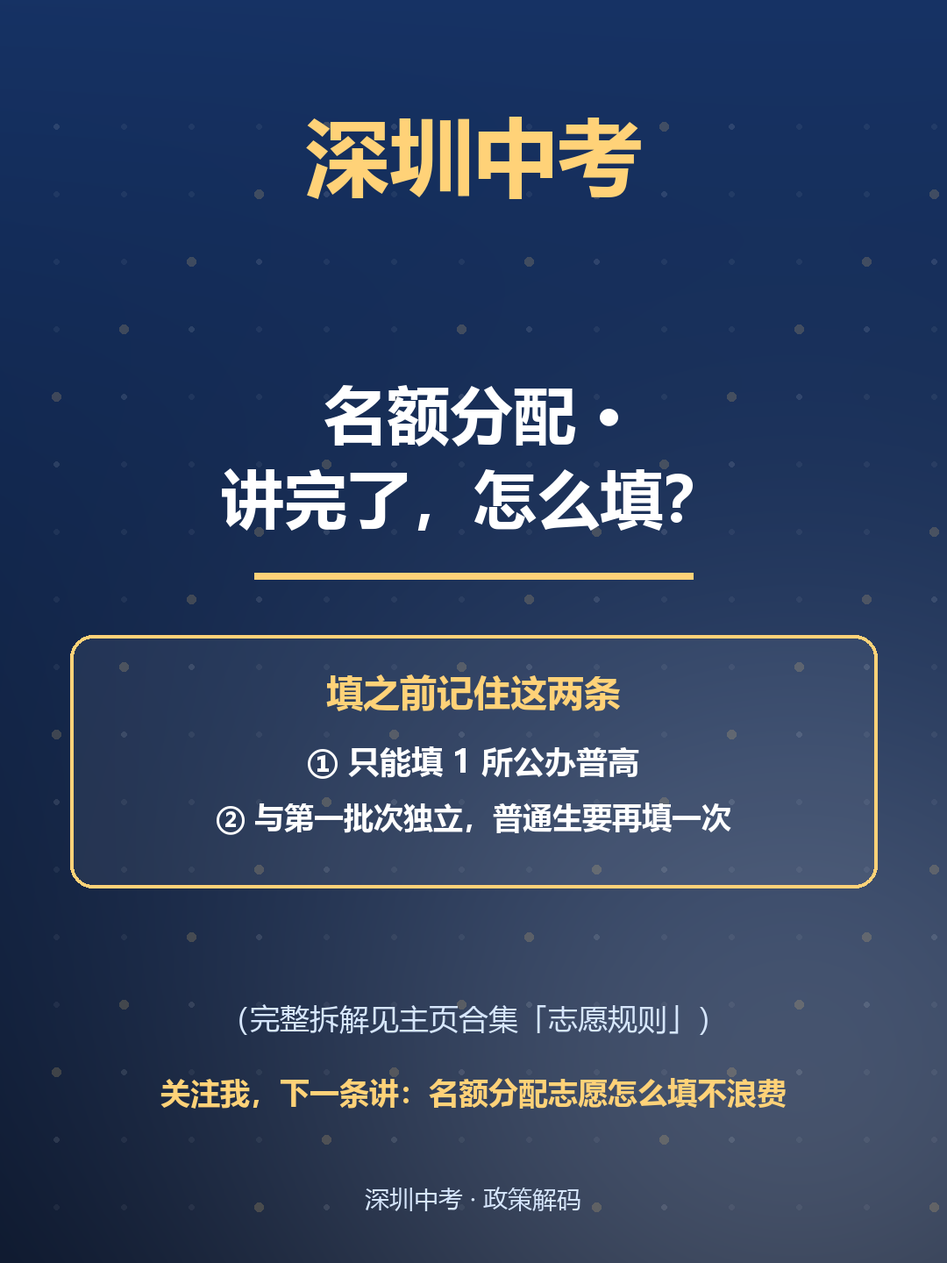
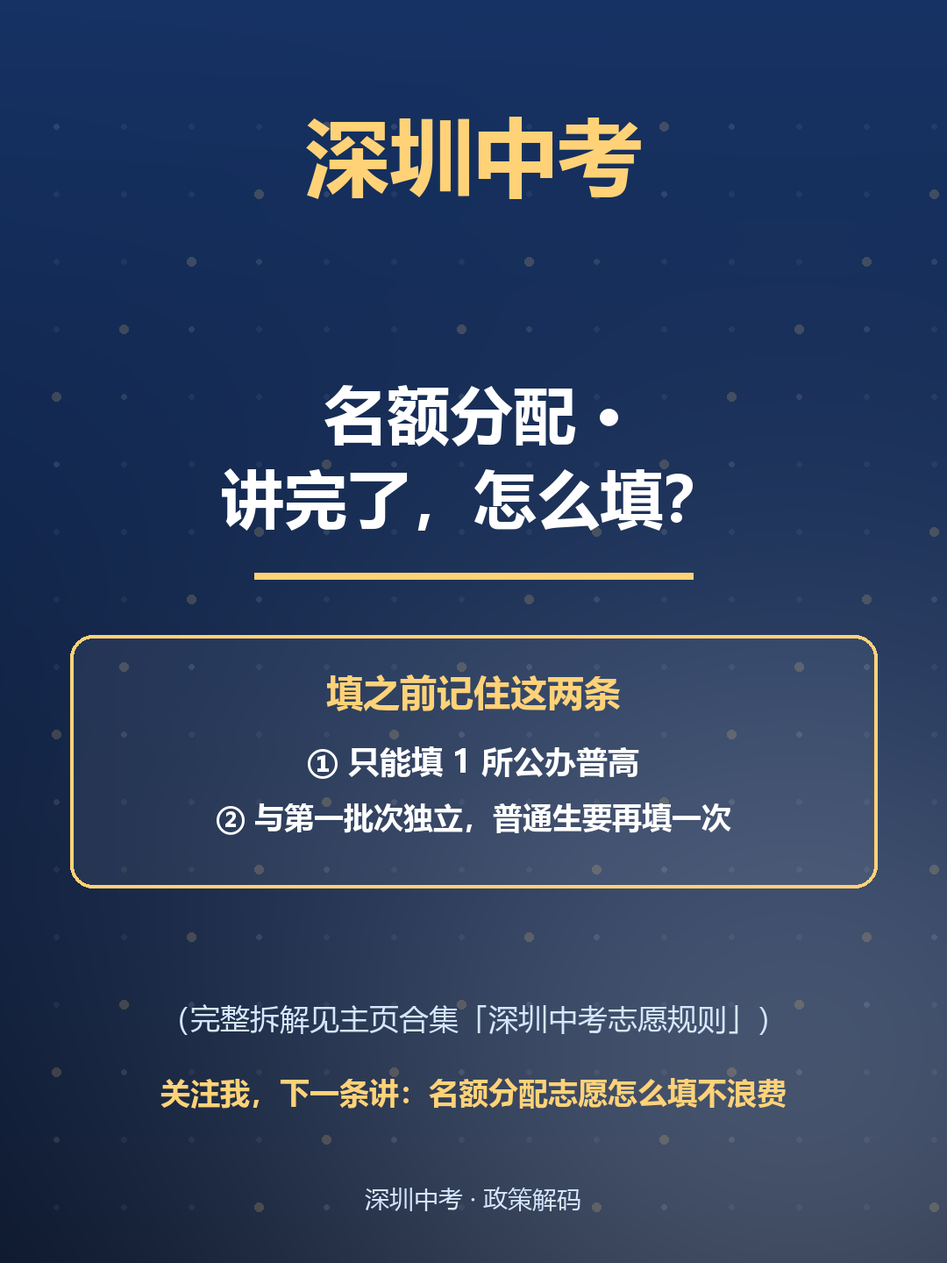
合集名更正：尾卡重渲为实建名「深圳中考志愿规则」；登记今晚两平台发布
背景（经营者 2026-09-23 口述）：
- 小红书主页合集已于 09-22 上午建好（推翻我昨日"合集未建"的错判）
- 账号实建三合集 = 深圳中考录取数据 / 深圳中考学校清单 / 深圳中考志愿规则
  与 02-附录B 原记的规划名（中考规则一篇讲透 等）不一致

处置：
- QA-006 / P1-5-S3 小红书尾卡：合集名「志愿规则」→「深圳中考志愿规则」
  各改脚本一行 + 重渲，四道闸口复过；其余 10 图逐字节未变（改动外科）
- 02-附录B：三合集名更正为实建名，并登记"外部实体名改动连锁"教训
  规划名→实建名 为 ①+③合并、②拆分
- P1-8（09-22 已发）尾卡写的是不存在的规划名，已发不回溯

登记：
- 头条 P1-5-S3 微头条 → ⏰ 09-23 20:00 手工（当晚唯一头条动作）
- 小红书 QA-006 → ⏰ 09-23 20:30 定时已设置
- 09-22 三平台实际值回填（含公众号 QA-006 长图阅读 3）

自纠：本日两处错判已更正——"合集未建"（未核 02-附录B 即断言）；
"志愿规则不存在"（实为其全名的截断）。新增纪律：配图里的平台侧实体名
须单独核对，四道图片闸口覆盖不了

Changed region(s): [[0.1833, 0.7812, 0.7639, 0.8438]]

diff --git a/docs/03-内容创作/SZ深圳/问答专区/006+2026深圳初二生地会考成绩什么时候公布？怎么查？有什么用？/_build_qa006_xhs.py b/docs/03-内容创作/SZ深圳/问答专区/006+2026深圳初二生地会考成绩什么时候公布？怎么查？有什么用？/_build_qa006_xhs.py
@@ -184,7 +184,7 @@ def tail():
     put(d, "这 100 分的 4 个作用", (WX / 2, 800), 42, GOLD, maxw=880, tag="b1")
     put(d, "① 没它不能投档　② 同分先比它", (WX / 2, 872), 36, WHITE, maxw=880, tag="b2")
     put(d, "③ 指标生批同样适用　④ 缺考可补考", (WX / 2, 932), 36, WHITE, maxw=880, tag="b3")
-    put(d, "（详见主页合集「志愿规则」）", (WX / 2, 1180), 34, SUB, bold=False, maxw=920, tag="n1")
+    put(d, "（详见主页合集「深圳中考志愿规则」）", (WX / 2, 1180), 34, SUB, bold=False, maxw=920, tag="n1")
     put(d, "关注我，下一条讲：生地分数怎么和选校挂钩", (WX / 2, 1258), 36, GOLD,
         maxw=960, tag="cta")
     put(d, "深圳中考 · 问答系列 006", (WX / 2, 1366), 28, SUB, bold=False, maxw=1000, tag="foot")

diff --git a/docs/03-内容创作/SZ深圳/P1-政策解码器/P1-5-名额分配指标生/子任务S3-你初中分几个名额/_build_p15_s3_imgs.py b/docs/03-内容创作/SZ深圳/P1-政策解码器/P1-5-名额分配指标生/子任务S3-你初中分几个名额/_build_p15_s3_imgs.py
@@ -433,7 +433,7 @@ def xhs_tail():
     put(d, "① 只能填 1 所公办普高", (WX / 2, 866), 36, WHITE, maxw=880, W=WX, H=HX, tag="b2")
     put(d, "② 与第一批次独立，普通生要再填一次", (WX / 2, 930), 34, WHITE, maxw=880,
         W=WX, H=HX, tag="b3")
-    put(d, "（完整拆解见主页合集「志愿规则」）", (WX / 2, 1160), 34, SUB, bold=False,
+    put(d, "（完整拆解见主页合集「深圳中考志愿规则」）", (WX / 2, 1160), 34, SUB, bold=False,
         maxw=920, W=WX, H=HX, tag="n1")
     put(d, "关注我，下一条讲：名额分配志愿怎么填不浪费", (WX / 2, 1244), 34, GOLD,
         maxw=960, W=WX, H=HX, tag="cta")

diff --git a/docs/03-内容创作/SZ深圳/P1-政策解码器/P1-5-名额分配指标生/00-P1-5-全流程登记表.md b/docs/03-内容创作/SZ深圳/P1-政策解码器/P1-5-名额分配指标生/00-P1-5-全流程登记表.md
@@ -86,7 +86,7 @@ status: "主线**已全平台发布**（09-16）；**S1 四平台已发，实发
 | 主线 | ✅ 09-16 20:30 | 🔒 **压后**（见注①） | ✅ 09-16 19:00 | ✅ 09-16 20:55 | ✅ 09-16 21:00 |
 | **S1 2026控制线全表** | ✅ **09-18 20:30** | 🔒 压后（同注①） | ✅ **09-18 19:00** | ✅ **09-19 20:55** ⚠ **污染样本** | ✅ **09-18 21:00**（同题例外放行，见注②） |
 | **S2 学籍资格自查** | ✅ **09-20 20:30** | 🔒 压后（同注①） | ✅ **09-21 12:00**（原拟 09-20 19:00，**延后约 17h**） | ✅ **09-21 20:55 定时**（单篇已回填，见注④） | 🔒 09-20 停一天 → **改期 09-25 20:30**；09-22 改发非同主题清单体（已定 **P1-8 术语速查手册**），见注③ |
-| **S3 你初中分几个名额**（**并入 S4 收口**） | 🟡 素材齐（09-22 产，待终审） | 🔒 **存稿冻结解除 → 改标「转微头条改造」**（见注④一） | ⏰ **拟 09-23 发（当日唯一）** | 🔒 暂缓（先修开场钩子，见注④五） | ⏰ **拟 09-26 20:30（破窗）** ⚠ 破窗依据待复核，见注④四 |
+| **S3 你初中分几个名额**（**并入 S4 收口**） | 🟡 素材齐（09-22 产，待终审） | 🔒 **存稿冻结解除 → 改标「转微头条改造」**（见注④一） | ⏰ **09-23 20:00 手工**（当日唯一） | 🔒 暂缓（先修开场钩子，见注④五） | ⏰ **拟 09-26 20:30（破窗）**；尾卡合集名 09-23 已重渲为全名 ⚠ 破窗依据待复核，见注④四 |
 
 > **注①-A｜S3 已开产（2026-09-22，用户 09-22 拍板）**：单元 =《你初中分几个名额》，**并入 S4 收口**。
 > - **钩子已按 v1.3 前置要求改写**：原「163 所一个都没有」只讲了一半，现统一为「**163 所是 0 个 · 但还有一条路**」，并在**同段**给出手册 Q8 的**区共享名额**出路。口径底稿见 `子任务S3-你初中分几个名额/00-S3-官方口径与名额分配数据核验记录.md`。
@@ -149,7 +149,10 @@ status: "主线**已全平台发布**（09-16）；**S1 四平台已发，实发
 > **五、公众号：建议停更**
 > 09-22 QA-006 极简长图（20:00 发）= **阅读 3、搜一搜 0、推荐 0、朋友圈 0**。近 8 日全样本 3~18。**日更边际为负**（占用制作 + 重渲成本，换回 3 次阅读）。与 09-20 周报 §3.4 结论一致，本条为实证补充。
 >
-> **六、小红书北极星（获粉）仍为 0**——CTA 修正 09-22 才落地，**09-23 QA-006 是第一次检验**。⚠ **前置卡点未解：主页合集未建，09-23 / 09-25 / 09-26 三条尾卡 CTA 将全部落空。**
+> **六、小红书北极星（获粉）仍为 0**——CTA 修正 09-22 才落地，**09-23 QA-006 是第一次检验**。
+> ✅ **前置卡点已解（09-23 更正）**：**主页合集已于 09-22 上午建好**（经营者 09-23 确认 + `02-附录B` §四 早有记录）。**注④ 初稿误称"合集未建"，是错的**——我未核 `02-附录B` 即下断言。
+> 🚨 **但同一处查出真问题：尾卡上的合集名与账号实建名分叉。** 实建三合集 = **「深圳中考录取数据」/「深圳中考学校清单」/「深圳中考志愿规则」**（经营者 09-23 口述）；而 `02-附录B` 记的是规划名，S3 尾卡原写「志愿规则」（截断名）。
+> → **处置（09-23 17:3x）**：S3 与 QA-006 尾卡**已重渲为全名**（`_build_p15_s3_imgs.py` / `_build_qa006_xhs.py` 各改一行 + 重跑，四道闸口复过）；`02-附录B` 三合集名已更正；**P1-8（09-22 已发）写的是不存在的规划名，已发不回溯**。
 
 > ✅ **发布窗口已拍板（用户 2026-09-15）**：P1-5 主线 **2026-09-16** 发布。
 > 原三方不一致以本条为准：`01-写作简报` 写"11 月"、`P1-3 登记表` §四 系列衔接写"9 月底–10 月"，均按 09-16 更新。
@@ -180,9 +183,9 @@ status: "主线**已全平台发布**（09-16）；**S1 四平台已发，实发
 | **S2** | 小红书 | ⏰ ~~09-22 20:30~~ → **09-25 20:30** | ⬜ | | **改期**（09-21 裁决）：09-22 距 S1（09-18）4 天、距主线（09-16）6 天，仍落在 7 天硬规则内；09-25 距主线满 9 天、距 S1 满 7 天，完全出窗。**09-22 改发一条非同主题清单体**保日更节奏。依据见 §三 注③ 09-21 复检结论。**⚠ 09-22 实际发出的 P1-8（黑话A-Z）曝光仅 268 = 主线的 23.3%，低于同题重发的 S1（37.3%）——"同题惩罚"解释受挑战**，见 §三 注④四 |
 | **S3** | 公众号 | 🟡 素材齐，待终审 | ⬜ | | 见 §三 注①-A。**⚠ 09-23 起公众号建议停更**（09-22 QA-006 长图实测阅读 3，见 §三 注④五）——本格是否仍发待裁决 |
 | **S3** | 头条长文 | 🔒 **存稿冻结解除 → 转微头条改造** | — | | 见 §三 注④一。**不再挂"待通道恢复"**（通道已死 13 天） |
-| **S3** | 头条微头条 | ⏰拟 **09-23 晚** | ⬜ | | **当日唯一头条动作**——同日双发互斥 4.2×（见 §三 注④二） |
+| **S3** | 头条微头条 | ⏰拟 **09-23 20:00** | ⬜ | | **手工发布**（用户 09-23 报「今晚 8:00 手工发布」），**当日唯一头条动作**——同日双发互斥 4.2×（见 §三 注④二） |
 | **S3** | 抖音 | 🔒 暂缓 | — | | 先修开场钩子（S2 2s 跳出 54%，见 §三 注④三），修好再发 |
-| **S3** | 小红书 | ⏰拟 **09-26 20:30（破窗）** | ⬜ | | 见 §三 注①-A。**⚠ 破窗依据待复核**——若"断更惩罚 > 同题惩罚"假设成立，本档期逻辑需重估（见 §三 注④四） |
+| **S3** | 小红书 | ⏰拟 **09-26 20:30（破窗）** | ⬜ | | 见 §三 注①-A。**⚠ 破窗依据待复核**——若"断更惩罚 > 同题惩罚"假设成立，本档期逻辑需重估（见 §三 注④四）。**尾卡合集名已于 09-23 重渲为全名「深圳中考志愿规则」**（原「志愿规则」为截断名，见 §三 注④六） |
 
 > 规则：**发布动作一律走「群发」**（非「发布」），避免重演 09-05 前后「19 篇未群发 → 推荐断崖」。
 > **同一主题 7 天内不重复投同一平台**（2026-09-15 新增 → **2026-09-18 升格硬规则** → **2026-09-21 适用边界扩展至抖音**）。来源实证：09-10/09-13「未来五年 10 万学位」、09-02「滑档排名 40」同晚三连发、**09-14 重发 09-12 清单体（只拿到前篇 24.7% 曝光 / 13.8% 观看）**。**排期前必须先过这条规则**。
@@ -296,6 +299,10 @@ status: "主线**已全平台发布**（09-16）；**S1 四平台已发，实发
 | **2026-09-23** | **观测·新增** | ⭐ **新增待观测项「断更惩罚 vs 同题惩罚」**：09-22 全新主题 P1-8 曝光 268 = 主线 **23.3%**，**低于**同题重发的 S1（**37.3%**）；叠加 09-19~09-21 **断更 3 天**。**若"断更更伤"成立，将推翻 S3 破窗至 09-26 的依据**。⚠ 单条样本、两因素未分离，**暂不改期**，观测点＝对比 09-23（连续）与 09-22（断更后）的曝光。详见 §三 注④四 |
 | **2026-09-23** | **回填** | **S1 抖音 +3 天回填**：09-22 = **100 播 / 5s 25.0% / 2s 跳出 41.0%**（污染样本，须在样本集外单独记录）。**S2 抖音 +3 天读数**（09-23 导出，本应 09-24 取）：**119 播 / 5s 23.9% / 2s 跳出 54.0%**——**播放赢 S1，钩子输**。**同步纠正 09-22 判断**：安全区修正未改善开场留存（S1 41.0% → S2 54.0% 反向恶化），二者是两个独立问题。详见 §三 注④三 |
 | **2026-09-23** | **建议·待裁决** | **公众号建议停更**：09-22 QA-006 极简长图 = **阅读 3 / 搜一搜 0 / 推荐 0 / 朋友圈 0**，近 8 日全样本 3~18。**日更边际为负**。S3 公众号格是否仍发，待经营者裁决（§四 S3 公众号行已标 🔒 待裁决） |
+| **2026-09-23** | **发布·排定** | **S3 头条微头条定 09-23 20:00 手工发布**（用户 09-23 报「今晚 8:00 手工发布」）。**当日唯一头条动作**。**S3 小红书（09-26）与 QA-006 小红书（09-23 20:30 定时）已由经营者排定** |
+| **2026-09-23** | **更正** | 🚨 **推翻我自己昨日的错判**：**主页合集未建是错的**——合集**已于 09-22 上午建好**（`02-附录B` §四 落地检查早有记录）。**本表注④ 六 原写"前置卡点未解"已更正。教训：断言"某前置没做"前，先搜本仓既有 ops 落地清单。** |
+| **2026-09-23** | **口径·更正** | 🚨 **合集名分叉（跨单元）**：账号**实建三合集** = 「深圳中考录取数据」/「深圳中考学校清单」/「**深圳中考志愿规则**」（经营者 09-23 口述）；`02-附录B` 原记「中考规则，一篇讲透」等为**规划名**，**与实建名不一致**。**S3 尾卡原写截断名「志愿规则」** → **已改全名并重渲**（`_build_p15_s3_imgs.py` 一行 + 重跑，四道闸口复过）。**同批修正 QA-006 尾卡；`02-附录B` 三合集名已更正。** |
+| **2026-09-23** | **规范·新增** | 🚨 **新增纪律：外部实体名（合集名/小程序名/账号名）的改动连锁**。原「改动连锁」只覆盖**图内元素**（重渲→改名→删旧），**覆盖不了图里引用的外部名字**——`blue-family-visual-rule` 的四道闸口只查尺寸/越界/蓝系/连锁，**查不了"这个名字在平台上真的存在吗"**。**本条即反例**：三张尾卡里两张引用了分叉的合集名，闸口全过、无人发现。**处置：凡配图正文出现平台侧实体名（合集/话题/账号/小程序），发布前须单独核对一次名称是否与平台实建一致**，不并入图片闸口 |
 | **2026-09-21** | **规范·样本** | **S1 抖音（09-19）标记为污染样本**（§四 S1 抖音行）。两条并存：① **同题 3 天窗口违规**（距主线抖音 09-16 仅 3 天）；② **安全区越界**（6 张分镜沿用修正前参数）。**禁止用其 80 播放 / 完播 0% / 5s完播 27.5% 评价钩子有效性**——否则会误回退全仓唯一被验证的因果链（09-14 645 播·5s完播 **42.03%**、09-16 586 播·**37.46%**，方法仍有效） |
 | **2026-09-21** | **规范·扩展** | **「同题 7 天」规则适用边界扩展至抖音**（§四 规则区，第四次实证）。S1 抖音（09-19）距主线抖音（09-16）**仅 3 天即发，排期时从未被该规则检查过**——此前该规则只在小红书分支被执行。结果 **80 播放 = 前篇的 13.6%**，为 09-07 以来第二差。**自本日起排期表逐平台过窗，不区分载体。** 另暴露一处**待裁决**：头条长文与微头条是否算"同一平台重复"（按字面算，则 P1-5 长文在本周期内作废） |
 | **2026-09-21** | **排期·改期** | **S2 小红书 09-22 → 09-25**（§三 注③）。09-21 复检 S1 小红书 **+3 天 = 391 曝光 / 27 观看**（= 主线的 34.8% / 20.8%，与 09-14 重发的 29.4% / 16.2% 同档）→ **注③ 预设条件触发，同题风险成立，S2 起严格执行 7 天窗口**。09-22 改发**非同主题清单体**（账号已空窗 09-19/20/21 三天，曝光 443 → 307 创新低）。**同时登记证据强度的三点保留**：成熟度不对等（391 为 +3 天 vs 基准 +9 天）／账号同期整体下滑且 391 落在本账号普通笔记 350~470 区间内／**4~6 天间隔零数据，7 天是保守外推** |

diff --git a/docs/03-内容创作/SZ深圳/问答专区/00-问答专区-平台内容清单与发布登记表.md b/docs/03-内容创作/SZ深圳/问答专区/00-问答专区-平台内容清单与发布登记表.md
@@ -25,7 +25,7 @@ status: "待人工检查"
 | **003** 滑档去了深圳排名40的高中怎么办 | 9.1已发布 | 9.1已发布 | 9.2已定时发布 | 9.2已发布 | 9.2定时发布 | 9.2定时发布 | 9.2定时发布 | 已发布9.1 |  |  |
 | **004** 非深户想让孩子以深户身份考深圳中考，最迟几年级开始办户口？ |  |  |  |  |  |  |  |  |  |  |
 | **005** 2027年深圳中考会新增多少学位？中考压力会明显减轻吗？ |  |  | **今晚09-10 21:30拟发** |  | ⛔取消 | **09-15拟发** |  | **09-15拟发** | ⛔取消 | — |
-| **006** 2026深圳初二生地会考成绩什么时候公布？怎么查？有什么用？ | ✅ 09-21 20:30 定时 | ⏰ 09-22 20:00（v2 重渲） | 🔒 压后（**通道未恢复**，见排期说明） | ✅ 09-21 19:29 实时 → 09-22 已改 v2 | — | ⏰ **09-23 拟发（清单体 6 图）** | — | — | — | — |
+| **006** 2026深圳初二生地会考成绩什么时候公布？怎么查？有什么用？ | ✅ 09-21 20:30 定时 | ✅ **09-22 20:00**（v2 重渲；**阅读 3 / 搜一搜 0**） | 🔒 **存稿冻结解除 → 转微头条改造**（通道未恢复，见排期说明） | ✅ 09-21 19:29 实时 → 09-22 已改 v2（**1,269 展现 / 70 阅读**） | — | ⏰ **09-23 20:30 定时**（清单体 6 图；**尾卡合集名 09-23 已重渲为全名**） | — | — | — | — |
 
 > ~~**QA-005 抖音已取消（2026-09-10 用户决定）**：本专题不做抖音，抖音（视频）/抖音（图文）两列标 ⛔取消。~~ **—— 本条已于 2026-09-12 撤销，见下文「抖音已重新启用」。**
 >
@@ -84,7 +84,10 @@ status: "待人工检查"
 > - ⏰ **公众号极简长图 → 09-22 20:00 发**（**已重渲至 v2**：9月23日 上午10:00）。20:00 发可连夜进搜一索索引，接住 09-23 上午搜索峰。
 > - 🔒 **头条长文 → 继续压后（原拟 09-22 晚，已撤回）**。**依据：09-22 拿到单篇清单后，通道未恢复被证实** —— 09-10 起新发文章展现全部落在 **5–44**（09-10 17／09-10 5／09-11 21／09-12 37／09-13 44／09-14 43），而 09-06~09-09 那批是 3,880–6,775。日汇总的"回升"是**旧文章长尾**，非新发表现。**判据：新发文章单篇展现 ≥200 才解禁**（当前最新一条 43）。
 > - ⚪ **公众号精简版（09-21 已发）→ 不动**。
-> - 🆕 **小红书（图文）→ 09-23 发**（用户 09-22 追加裁定）。**清单体 6 图**：封面 + 查分三样东西 + 4个作用 + 两个误读（对比）+ 当天做三件事 + 尾卡。CTA 全线倒向**关注 + 主页合集**。定位=**搜索承接稿**（09-23 是生地搜索峰）。
+> - 🆕 **小红书（图文）→ 09-23 20:30 定时**（用户 09-23 报「已经定时发布」）。**清单体 6 图**：封面 + 查分三样东西 + 4个作用 + 两个误读（对比）+ 当天做三件事 + 尾卡。CTA 全线倒向**关注 + 主页合集**。定位=**搜索承接稿**（09-23 是生地搜索峰）。
+>   - 🚨 **尾卡合集名更正（2026-09-23 17:3x）**：账号实建三合集＝**「深圳中考录取数据」/「深圳中考学校清单」/「深圳中考志愿规则」**（经营者 09-23 口述），**与 `02-附录B` 原记的规划名「中考规则，一篇讲透」等不一致**。本条尾卡原写截断名「志愿规则」，**已改全名并重渲**（四道闸口复过）。同批修正 P1-5-S3 尾卡；`02-附录B` 三处已更正；**P1-8（09-22 已发）写的是不存在的规划名，已发不回溯**。
+>   - ⚠ **发布前须确认**：本条笔记**本身已被加入**「深圳中考志愿规则」合集——否则观众按图索骥进主页，在那个合集里找不到它。
+>   - 📊 **09-22 公众号长图实测**：**阅读 3 / 搜一搜 0 / 推荐 0 / 朋友圈 0**（近 8 日全样本 3~18）→ **公众号建议停更**。
 >
 > **配图重渲（09-22）**：头条**全部 7 张**（封面1/2/3 + 正文图1/2/3 + 微头条配图）、公众号数据卡1 + 长图 + 章节条1，均已带「9月23日 10:00」。⚠ **复用风险**：公众号**封面-精炼版**未重渲（已随 09-21 发布），其「成绩随时可能公布」措辞**已过期**，若复用须重渲。
 >

diff --git a/docs/03-内容创作/SZ深圳/问答专区/006+2026深圳初二生地会考成绩什么时候公布？怎么查？有什么用？/04.小红书/QA-006-生地会考成绩-小红书-图文-发布稿.md b/docs/03-内容创作/SZ深圳/问答专区/006+2026深圳初二生地会考成绩什么时候公布？怎么查？有什么用？/04.小红书/QA-006-生地会考成绩-小红书-图文-发布稿.md
@@ -4,7 +4,7 @@ date: "2026-09-22"
 type: "小红书图文（6 图轮播·清单体）"
 article: "QA-006"
 series: "问答专区"
-status: "待发布——**09-23 发**（成绩公布当天）"
+status: "⏰ **09-23 20:30 定时已设置**（用户 09-23 报）——待触发后回填实际时刻"
 word_count: "约560字"
 source: "../00-QA-006-官方口径与历年查分时间核验.md"
 title: "生地会考成绩9月23日10:00开查！查分3样东西＋这100分的4个作用"
@@ -16,7 +16,7 @@ images:
   - "QA-006-生地会考成绩-小红书-正文图3-两个误读-1080x1440.png"
   - "QA-006-生地会考成绩-小红书-正文图4-当天做三件事-1080x1440.png"
   - "QA-006-生地会考成绩-小红书-尾卡-关注与合集-1080x1440.png"
-cta_note: "**CTA 全线倒向「关注 + 主页合集」**（依据 09-20 周报：同类前 4% 的内容配同类后 7% 的承接，根因是一直请人收藏、从没要过关注）。⚠ 前置条件：**主页合集必须先建好**，否则观众进了主页无处可去。"
+cta_note: "**CTA 全线倒向「关注 + 主页合集」**（依据 09-20 周报：同类前 4% 的内容配同类后 7% 的承接，根因是一直请人收藏、从没要过关注）。✅ **前置已解**：主页合集**已于 2026-09-22 上午建好**（经营者 09-23 确认）。🚨 **合集名更正（09-23）**：账号实建三合集为「深圳中考录取数据」「深圳中考学校清单」「深圳中考志愿规则」——本条归属第三个；尾卡原写截断名「志愿规则」，**已于 09-23 17:3x 重渲为全名，四道闸口复过**。"
 ---
 
 # 生地会考成绩9月23日10:00开查！查分3样东西＋这100分的4个作用
@@ -64,14 +64,15 @@ cta_note: "**CTA 全线倒向「关注 + 主页合集」**（依据 09-20 周报
 | 3 | 正文图2-四个作用 | 清单体：①有成绩才能投档 ②同分第一层 ③指标生批适用 ④缺考可补考 |
 | 4 | 正文图3-两个误读 | 对比体：两条误读各配 ✕ 标记 |
 | 5 | 正文图4-当天做三件事 | 行动清单 + 三块数字磁贴（23 / 100 / 3） |
-| 6 | 尾卡-关注与合集 | **承接 CTA**：四作用回顾 + 「详见主页合集『志愿规则』」+「关注我，下一条讲…」 |
+| 6 | 尾卡-关注与合集 | **承接 CTA**：四作用回顾 + 「详见主页合集『深圳中考志愿规则』」+「关注我，下一条讲…」 |
 
 ## 发布要点
 
 - **定位**：09-23 是生地成绩公布日，**站内搜索峰值在当天上午**。本条是**搜索承接稿**，不是冲动型内容。
 - **必须带话题标签**（建议）：`#深圳中考` `#生地会考` `#深圳中考志愿填报`（前 5 个词内出现核心词）。
 - **CTA 纪律（本轮最高杠杆）**：末句与尾卡**统一请「关注 + 主页合集」**，**不得**再出现"收藏""保存"类动作——这是 09-20 周报认定、连续 6 周未修的承接漏点。
-- ⚠ **前置条件**：**主页合集须先建好**（建议三栏：志愿规则／录取数据／学校清单）。合集不存在时，"主页合集按顺序看"这句会落空。
+- ✅ **前置条件已满足（09-23 更正）**：主页合集**已于 09-22 上午建好**。账号实建三合集＝「深圳中考录取数据」/「深圳中考学校清单」/**「深圳中考志愿规则」**——本条尾卡指向第三个。尾卡已于 09-23 17:3x 重渲为全名。
+- ⚠ **发布前须确认**：本条笔记**本身已被加入**「深圳中考志愿规则」合集——否则观众按图索骥进主页，在那个合集里找不到它。
 - **不做**：本条不与公众号/头条同题冲突（不同平台各一版）。
 
 ## 发布前自检（内部）

diff --git a/docs/15-运营数据/SZ深圳/2026年/20260923/20260923-四平台运营数据分析（含单篇清单口径复核）.md b/docs/15-运营数据/SZ深圳/2026年/20260923/20260923-四平台运营数据分析（含单篇清单口径复核）.md
@@ -160,7 +160,15 @@ author: "AI 分析，经营者裁决"
 
 > ✅ **坐实 09-20 周报诊断：CTA 只请「收藏」没请「关注」，承接环节断裂。**
 > ⚠ **CTA 修正是 09-22 才落地的，至今没有任何一条带新 CTA 的数据回流。** 09-23 QA-006 是**第一次检验**。
-> 🚧 **前置卡点未解**：主页合集未建 → 09-23 / 09-25 / 09-26 三条的尾卡 CTA（"详见主页合集"）会**全部落空**。**这是本轮唯一只有经营者能做的前置。**
+> ✅ **前置卡点已解（2026-09-23 更正）**：**主页合集已于 09-22 上午建好**——经营者 09-23 确认，且 `docs/14-运营管理/C-日常运营/02-附录B-各平台主页简介与导流话术.md` §四 落地检查早已记录「合集 ×3 与置顶 ×3 已落地（09-22 上午）」。
+>
+> 🚨 **本报告初稿误称"合集未建"——是错的。** 我未核 `02-附录B` 就下了断言，并把该错判同时写进了本报告与 `00-P1-5-全流程登记表` 注④。**教训：断言"某个前置没做"之前，先搜一遍本仓既有的 ops 落地清单。**
+>
+> ⚠ **但顺带查出一处真问题（已处置）**：`02-附录B` 记的三个合集名是**规划名**，与账号**实建名**分叉——
+> - 规划名：「中考规则，一篇讲透」/「查分数线 · 选学校」/「填志愿，不踩坑」
+> - **实建名（经营者 09-23 口述）：「深圳中考录取数据」/「深圳中考学校清单」/「深圳中考志愿规则」**
+>
+> **受影响的配图**：P1-8（09-22 已发）尾卡写「中考规则，一篇讲透」→ **该名不存在**（已发不回溯，建议评论区置顶更正）；QA-006 与 P1-5-S3 尾卡写「志愿规则」→ **截断名，2026-09-23 已重渲为全名「深圳中考志愿规则」**。`02-附录B` 三处合一、尾卡重渲、`P1-8` 的差异已在该文件登记。
 
 ---
 
@@ -251,7 +259,7 @@ author: "AI 分析，经营者裁决"
 | 2 | **头条 P1-5-S3 微头条：今天只发这一条** | 同日双发互斥 4.2×（§四） |
 | 3 | **头条 QA-006 长文：不发** | 09-22 已用掉一条 62 展现，再发只是再浪费（§二） |
 | 4 | **公众号：不发** | 09-22 实测阅读 3（§八） |
-| 5 | 🚧 **建小红书主页合集** | 卡着 09-23 / 09-25 / 09-26 三条 CTA |
+| 5 | ~~🚧 建小红书主页合集~~ **已完成（09-22 上午）** | 见 §六 更正；**余项：核对 P3 系列在「录取数据」与「学校清单」两合集间的归属** |
 
 ### P1 —— 本周
 
@@ -277,8 +285,8 @@ author: "AI 分析，经营者裁决"
 
 | 时间 | 平台 | 单元 | 类型 | 状态 |
 |---|---|---|---|---|
-| **09-23 白天** | 小红书 | QA-006 | 图文（6 图清单体） | ⏰ 待发 |
-| **09-23 晚** | 今日头条 | P1-5-S3 | 微头条（**当日唯一**） | ⏰ 待发 |
+| **09-23 20:30** | 小红书 | QA-006 | 图文（6 图清单体） | ⏰ **已定时**（用户 09-23 报） |
+| **09-23 20:00** | 今日头条 | P1-5-S3 | 微头条（**当日唯一**，手工发布） | ⏰ **待发**（用户 09-23 报） |
 | ~~09-23~~ | ~~今日头条~~ | ~~QA-006~~ | ~~长文 v2~~ | 🔒 **取消**（通道未恢复） |
 | ~~09-23~~ | ~~微信公众号~~ | ~~—~~ | ~~—~~ | 🔒 **停更** |
 | **09-24 20:30** | 小红书 | P1-8 | 术语卡片（若系列有后续卡） | ⬜ 待经营者确认 |

diff --git a/docs/15-运营数据/SZ深圳/20260920/20260920-周度四平台运营数据分析（09-14~09-20）.md b/docs/15-运营数据/SZ深圳/20260920/20260920-周度四平台运营数据分析（09-14~09-20）.md
@@ -327,8 +327,8 @@ type: 周度复盘（近7日主口径 + 30日背景 + 同类分位新增）
 
 | # | 时间 | 平台 | 任务 | 文稿类型 | 发布方式 | 状态 |
 |---|---|---|---|---|---|---|
-| 15 | **09-23 白天** | 小红书 | **QA-006** | 图文（6 图清单体） | 实时 | ⏰ 待发 |
-| 16 | **09-23 晚** | 今日头条 | **P1-5-S3** | 微头条（**当日唯一**） | 实时 | ⏰ 待发 |
+| 15 | **09-23 20:30** | 小红书 | **QA-006** | 图文（6 图清单体） | **定时** | ⏰ **已定时**（用户 09-23 报）——待触发后回填实际时刻 |
+| 16 | **09-23 20:00** | 今日头条 | **P1-5-S3** | 微头条（**当日唯一**） | **手工** | ⏰ **待发**（用户 09-23 报「今晚 8:00 手工发布」） |
 | 17 | ~~09-23~~ | ~~今日头条~~ | ~~QA-006~~ | ~~长文 v2~~ | — | 🔒 **取消**（通道未恢复，09-22 已耗一条） |
 | 18 | ~~09-23 起~~ | ~~微信公众号~~ | ~~—~~ | ~~—~~ | — | 🔒 **停更**（09-22 实测阅读 3） |
 | 19 | **09-24 20:30** | 小红书 | P1-8 | 术语卡片（若系列有后续卡） | 定时 | ⬜ 待经营者确认（填断更空档） |
@@ -357,6 +357,13 @@ type: 周度复盘（近7日主口径 + 30日背景 + 同类分位新增）
 > ⚠ **五、抖音 S2 定性，并纠正 09-22 判断**：S2 播放 **119（T+2）> S1 的 100（T+3.5）**——"题赢了"；但 **2s 跳出率 S2 = 54.0%**（S1 41.0%、09-16 主线 31.8%）——"钩子输了"。**我 09-22 判定 S1 为污染样本、并暗示安全区修正后 S2 会更好，该判断被推翻**：安全区是「画面被裁」的正确性问题，2s 跳出是「开场钩子」的内容问题，**修正前者不改善后者**。
 >
 > ⚠ **六、公众号归零**：09-22 QA-006 极简长图（20:00 发）= **阅读 3、搜一搜 0、推荐 0、朋友圈 0**。**建议停更或降至每周 1 篇。**
+>
+> 🚨 **七、更正（09-23，我写错的两处）**：
+> 1. **"主页合集未建"是错的。** 合集**已于 09-22 上午建好**（经营者 09-23 确认；`02-附录B` §四 落地检查早有记录「合集 ×3 与置顶 ×3 已落地（09-22 上午）」）。**我未核该文件就下了断言，并写进了 09-23 分析报告与 P1-5 登记表注④。**
+> 2. **顺带查出的真问题**：`02-附录B` 记的三合集名是**规划名**，与**账号实建名**分叉。实建名（经营者口述）= **「深圳中考录取数据」/「深圳中考学校清单」/「深圳中考志愿规则」**。
+>    - **P1-8（09-22 已发）** 尾卡写「中考规则，一篇讲透」→ **该名不存在**（已发不回溯）
+>    - **QA-006（09-23 20:30）** 与 **P1-5-S3（09-26）** 尾卡原写「志愿规则」= 截断名 → **已重渲为全名「深圳中考志愿规则」**（09-23 17:3x，四道闸口复过）
+>    - `02-附录B` 三处合一，并在该文件登记「外部实体名的改动连锁」教训
 
 > **QA-006 注（2026-09-21 并入本计划；09-22 更新为 v2）**：QA-006《2026深圳初二生地会考成绩：怎么查？这100分有什么用？》为**时效搜索稿**。素材在 `docs/03-内容创作/SZ深圳/问答专区/006+…/`，登记见 `00-问答专区-平台内容清单与发布登记表.md`。
 >

diff --git a/docs/03-内容创作/SZ深圳/P1-政策解码器/P1-5-名额分配指标生/子任务S3-你初中分几个名额/04.小红书/P1-5-S3-你初中分几个名额-小红书-图文-发布稿.md b/docs/03-内容创作/SZ深圳/P1-政策解码器/P1-5-名额分配指标生/子任务S3-你初中分几个名额/04.小红书/P1-5-S3-你初中分几个名额-小红书-图文-发布稿.md
@@ -17,7 +17,7 @@ images:
   - "P1-5-S3-你初中分几个名额-小红书-正文图3-区共享名额-1080x1440.png"
   - "P1-5-S3-你初中分几个名额-小红书-正文图4-填之前记住两件事-1080x1440.png"
   - "P1-5-S3-你初中分几个名额-小红书-尾卡-关注与合集-1080x1440.png"
-cta_note: "CTA 倒向「关注 + 主页合集」（同 QA-006 本轮做法）。⚠ 前置：主页合集须已建好。"
+cta_note: "CTA 倒向「关注 + 主页合集」（同 QA-006 本轮做法）。✅ **前置已解**：主页合集**已于 2026-09-22 上午建好**（经营者 09-23 确认）。🚨 **合集名更正（09-23）**：账号实建名为「**深圳中考志愿规则**」（不是规划名「中考规则，一篇讲透」，也不是截断名「志愿规则」）；**尾卡已于 09-23 17:3x 重渲为全名，四道闸口复过**。"
 ---
 
 # 你孩子初中分到几个名额？488 所里 163 所是 0 个（但还有一条路）
@@ -79,7 +79,8 @@ cta_note: "CTA 倒向「关注 + 主页合集」（同 QA-006 本轮做法）。
 - **⚠ 同题间隔纪律（已破窗）**：小红书是本仓唯一被实证"同题重发有害"的平台。主线 09-16、S1 09-18、S2 改期 **09-25**。按 7 天窗口本条应排 **10-02 之后**；**用户 2026-09-22 裁定按时效优先破窗**，落 **09-26 20:30**（S2 次日，系列顺序正确，是唯一既破窗又不倒序的档位）。
   → **风险已知并接受**：现有实证中"同题不同角度"的间隔样本全是 2 天，**1 天间隔零数据**。发布后须在 +3/+7 天回填中**单列观测项**，与 S1（距主线 2 天，曝光为主线 34.8%）做对照。
 - **必须带话题标签**：`#深圳中考` `#深圳中考志愿填报` `#指标生`。
-- **CTA**：末句与尾卡统一请「关注 + 主页合集」，**不出现"收藏/保存"**。
+- **CTA**：末句与尾卡统一请「关注 + 主页合集」，**不出现"收藏/保存"**。**尾卡指名的合集＝「深圳中考志愿规则」**（账号实建名，09-23 重渲校正）。
+- ⚠ **发布前须确认**：本条笔记**本身已被加入**「深圳中考志愿规则」合集——否则观众按图索骥进主页，在那个合集里找不到它。
 - **不做**：抖音（用户 09-22 裁定暂缓）；头条长文（通道未恢复，本条产稿存发）。
 
 ## 发布前自检（内部）
